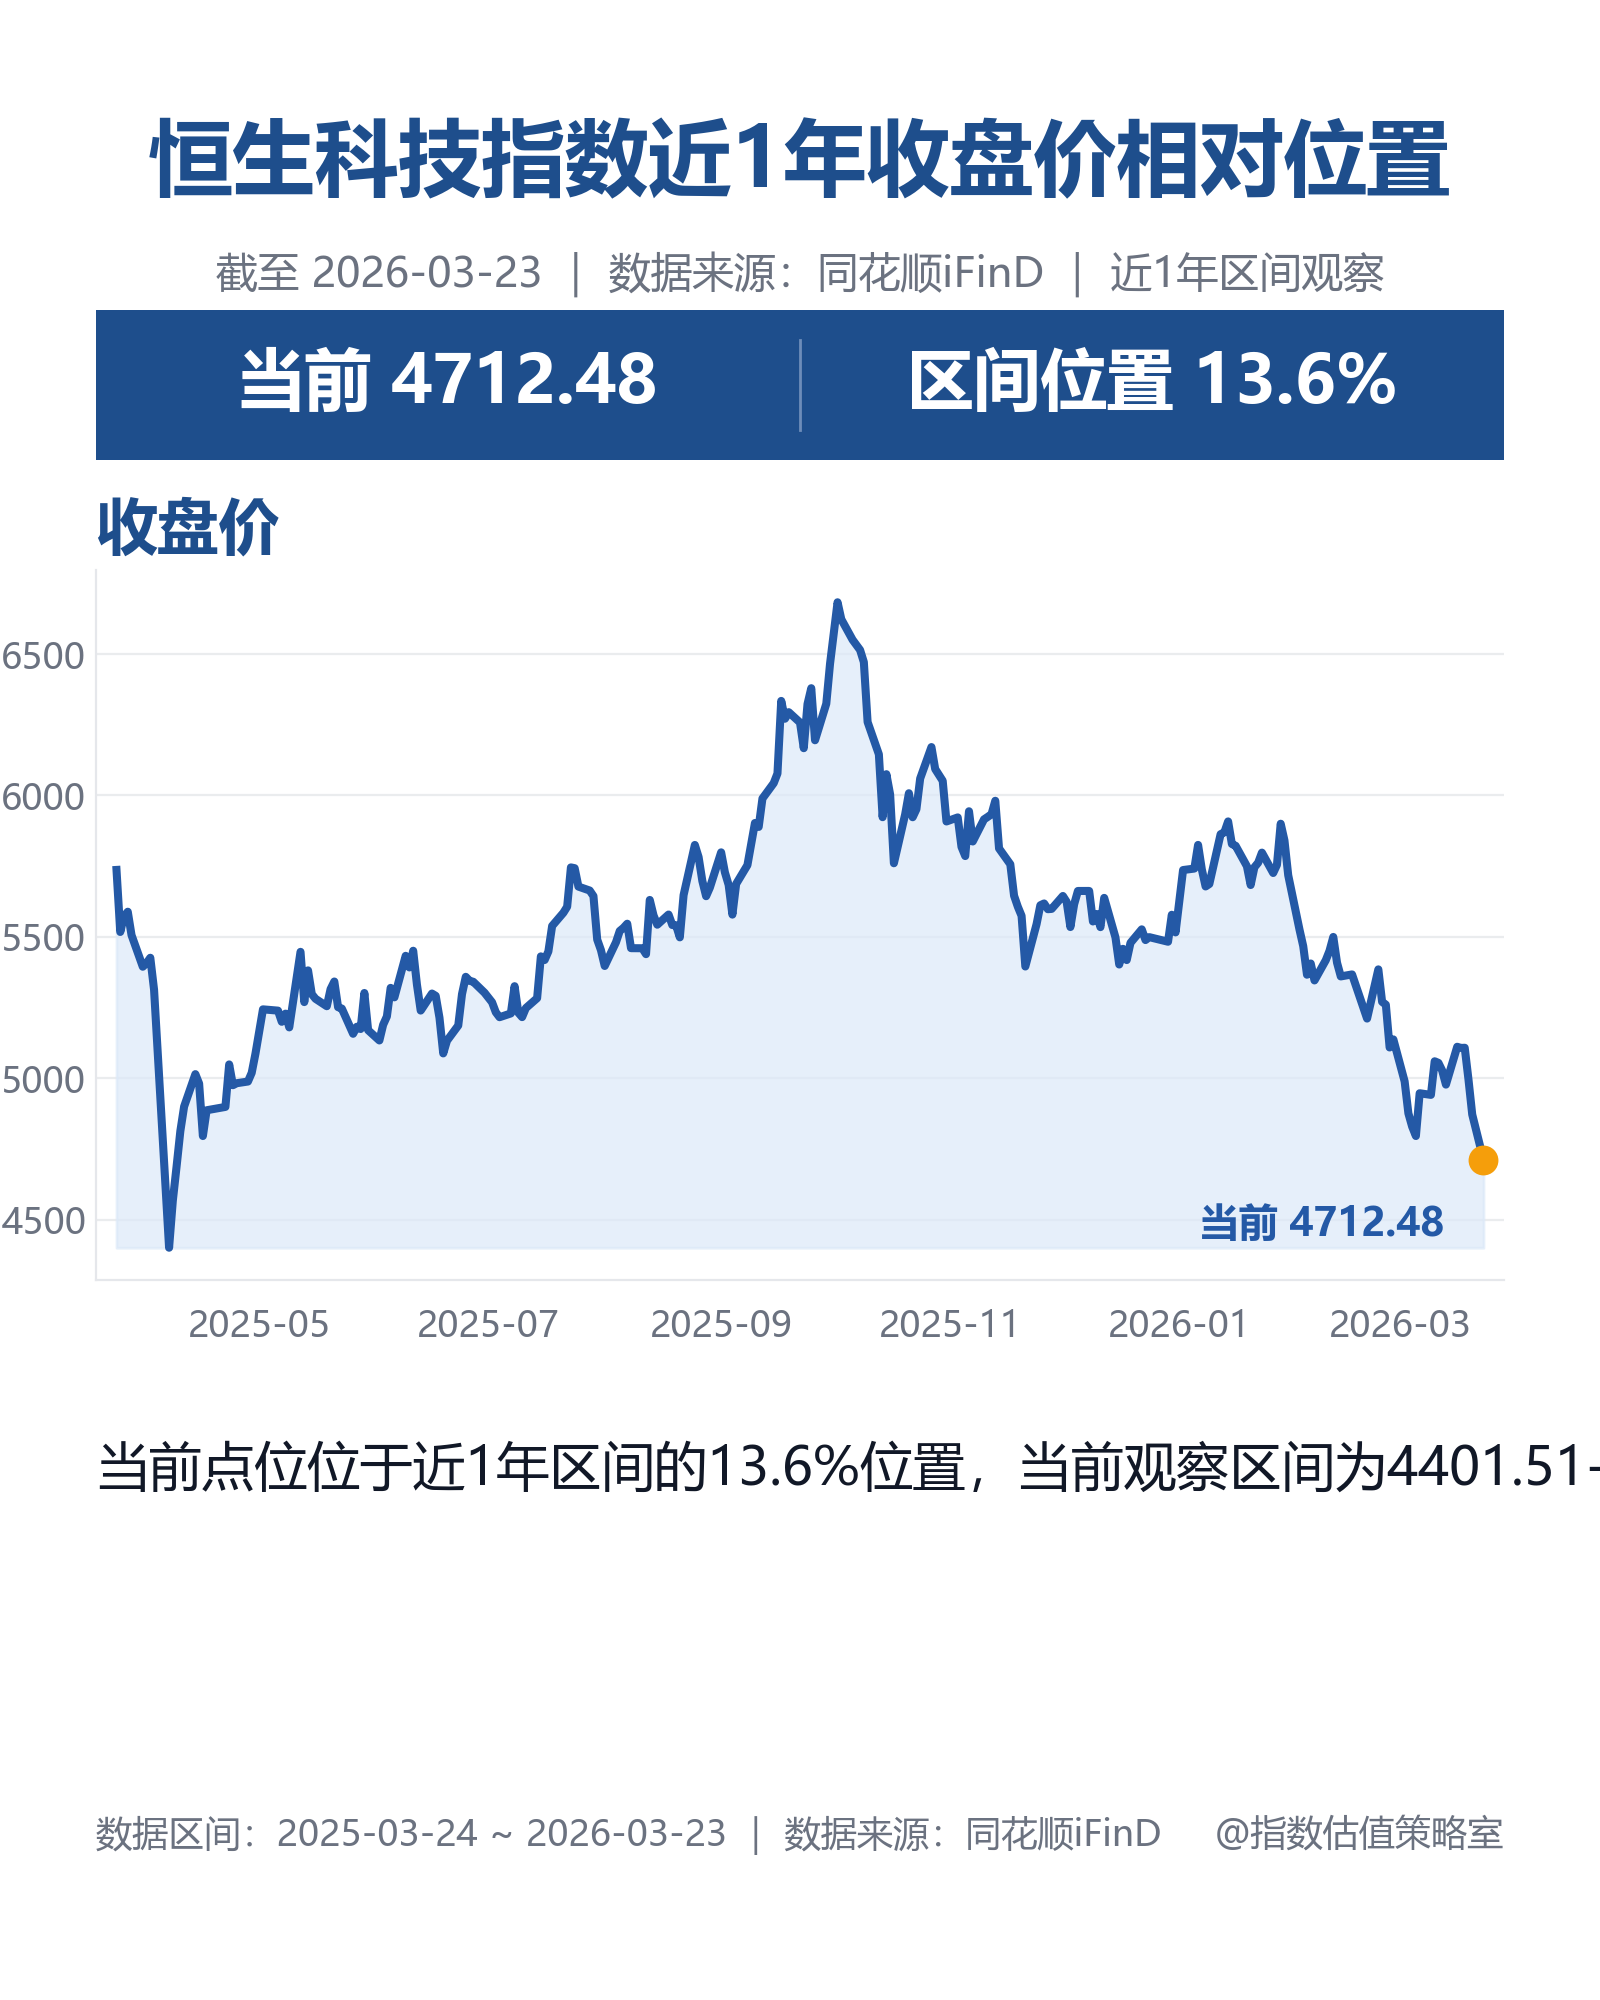
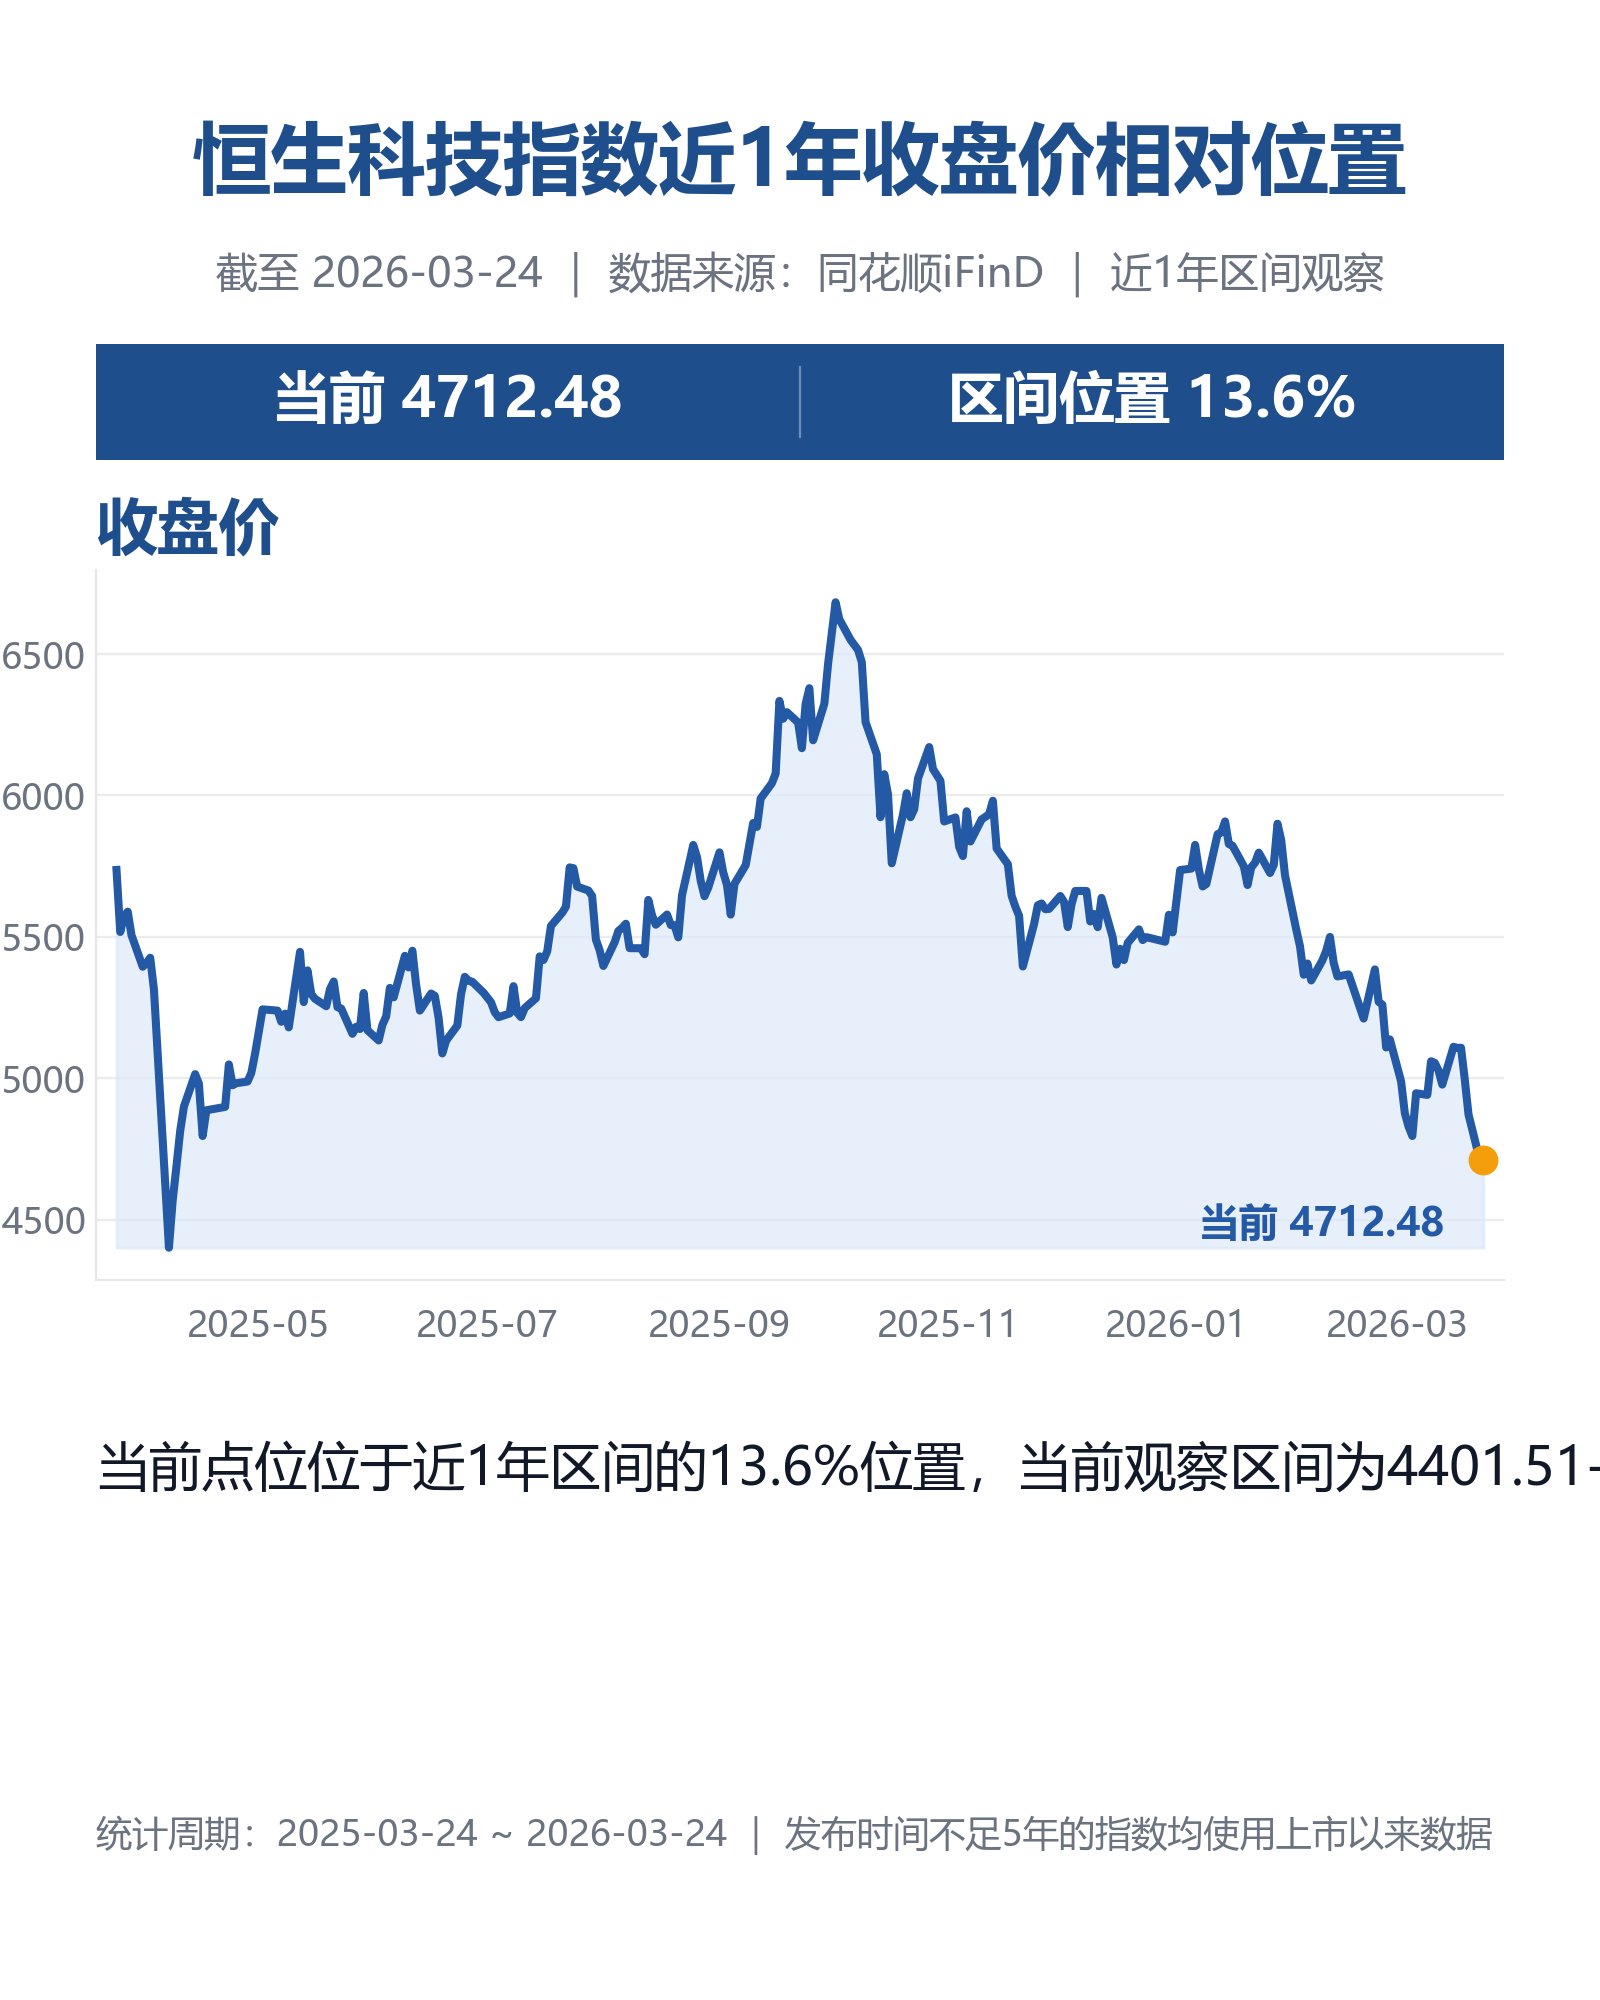
20260324 1508 update

diff --git a/core/exporter.py b/core/exporter.py
@@ -61,7 +61,7 @@ def _render_single_summary_bar(ax, indicator_key: str, indicator_name: str, metr
     _prepare_summary_axis(ax)
 
     if indicator_key in {"pe", "pb"}:
-        segments = [indicator_name, f"{metrics['position_pct']:.1f}%分位", plotter.valuation_status(metrics["position_pct"])]
+        segments = [f"当前 {metrics['current_value']:.2f}", f"{metrics['position_pct']:.1f}%分位", plotter.valuation_status(metrics["position_pct"])]
         accent_indices = {2}
         dividers = [1 / 3, 2 / 3]
         centers = [1 / 6, 0.5, 5 / 6]
@@ -141,7 +141,7 @@ def _render_footer(ax, start_date, end_date) -> None:
     for spine in ax.spines.values():
         spine.set_visible(False)
 
-    left = f"数据区间：{start_date:%Y-%m-%d} ~ {end_date:%Y-%m-%d} ｜ 数据来源：同花顺iFinD"
+    left = f"统计周期：{start_date:%Y-%m-%d} ~ {end_date:%Y-%m-%d} ｜ 发布时间不足5年的指数均使用上市以来数据"
     ax.text(0.0, 0.5, left, ha="left", va="center", fontsize=FONT_SIZE["footer"], color=COLORS["muted"])
     ax.text(1.0, 0.5, BRAND_TEXT, ha="right", va="center", fontsize=FONT_SIZE["footer"], color=COLORS["muted"])
 

diff --git a/core/style.py b/core/style.py
@@ -28,10 +28,10 @@ FONT_FAMILY = [
 ]
 
 FONT_SIZE = {
-    "title": 30,
+    "title": 28,
     "meta": 15,
-    "summary_main": 24,
-    "summary_sub": 16,
+    "summary_main": 20,
+    "summary_sub": 10,
     "section": 22,
     "chart_subtitle": 17,
     "current_label": 14,
@@ -49,9 +49,9 @@ PAGE = {
 }
 
 SUMMARY_BAR = {
-    "height": 0.075,
-    "padding_x": 0.04,
-    "divider_width": 1.0,
+    "height": 0.058,
+    "padding_x": 0.06,
+    "divider_width": 0.8,
 }
 
 CHART = {
@@ -100,4 +100,4 @@ DIVIDER = {
 
 VALUATION_QUANTILES = [0.10, 0.25, 0.50, 0.75, 0.90]
 
-BRAND_TEXT = "@指数估值策略室"
+BRAND_TEXT = ""
